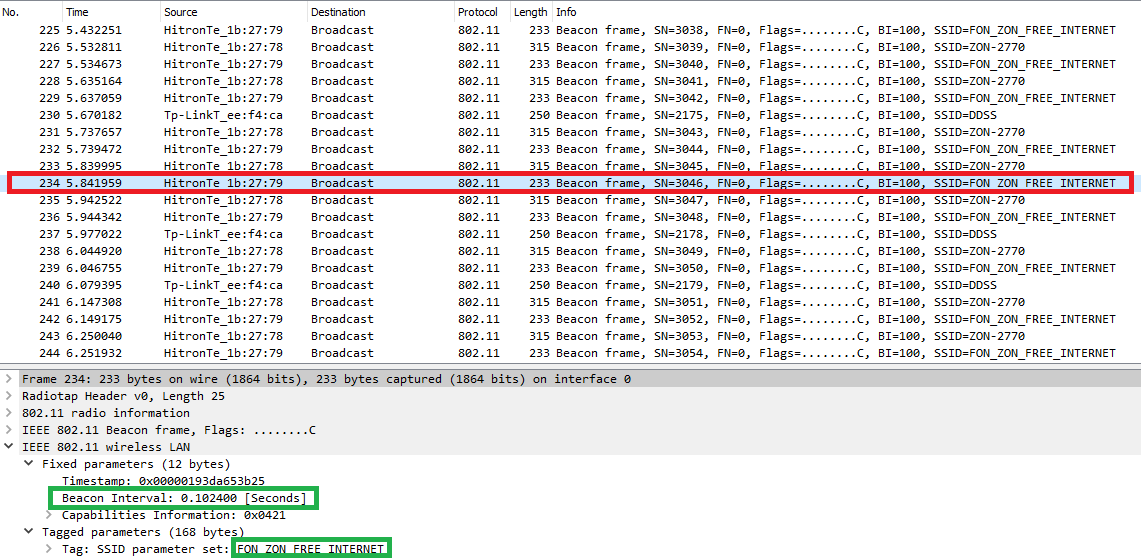
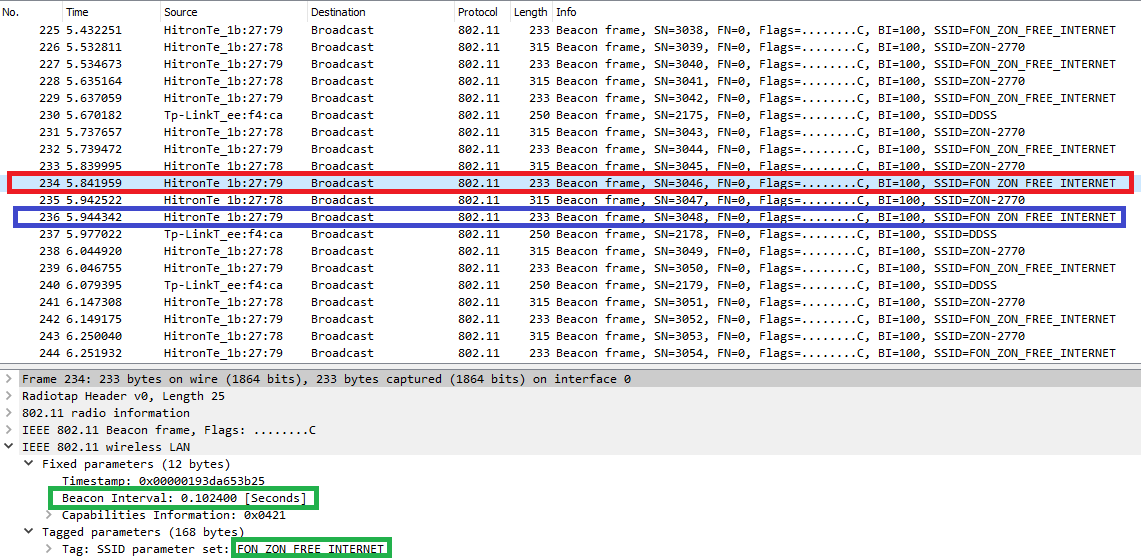
Fiz a 7, adicionei um protótipo de abstract.

Changed region(s): [[0.0, 0.3656, 1.0, 0.4265]]

diff --git a/trabalho4/relatorio/lncs-paper.tex b/trabalho4/relatorio/lncs-paper.tex
@@ -37,6 +37,8 @@ e-mail: \{a78034,a77531,a77870\}@alunos.uminho.pt
 \maketitle
 \begin{abstract}
 
+Este trabalho tem como objectivo explorar as particularidades do protocolo IEEE 802.11, especificamente, o formato das tramas, o endereçamento dos componentes envolvidos na comunicação sem fios e os tipos de tramas mais comuns, bem como a operação do protocolo.
+
 \end{abstract}
 
 \section{Introdução}
@@ -163,10 +165,25 @@ SSID ZON-2770: intervalo de acordo com a trama: 0.102400 s
 
 SSID FON_ZON_FREE_INTERNET: intervalo de acordo com a trama: 0.102400 s
 
-Na prática, o valor do intervalo de tempo varia cerca de +0.0001 s relativamente ao intervalo previsto. Isto pode se dever ao facto que é necessário fazer deteção de erros antes de receber cada beacon.
+Na prática, o valor do intervalo de tempo varia cerca de \pm 0.0001 s relativamente ao intervalo previsto. Isto pode se dever ao facto de que é necessário fazer deteção de erros ao receber cada trama. Isto é tido em conta pelo beacon interval e, como o tempo necessário para fazer a verificação é imutável, ocorrem pequenas variâncias no intervalo entre tramas.
 
 \subsubsection{Realização}\rule[-10pt]{0pt}{10pt}\\
 
+\begin{figure}
+  \begin{center}
+  \includegraphics[scale=0.35]{imagens/ZON_BI.png} 
+  \end{center}
+  \caption{Um exemplo de um intervalo real entre duas tramas beacon do mesmo AP, igual a 0.102527 s.}
+  \label{fig:zon_interval}
+\end{figure}
+
+\begin{figure}
+  \begin{center}
+  \includegraphics[scale=0.35]{imagens/FONZON_BI.png} 
+  \end{center}
+  \caption{Um exemplo de um intervalo real entre duas tramas beacon do mesmo AP, igual a 0.102383 s.}
+  \label{fig:zon_interval}
+\end{figure}
 
 
 \clearpage
